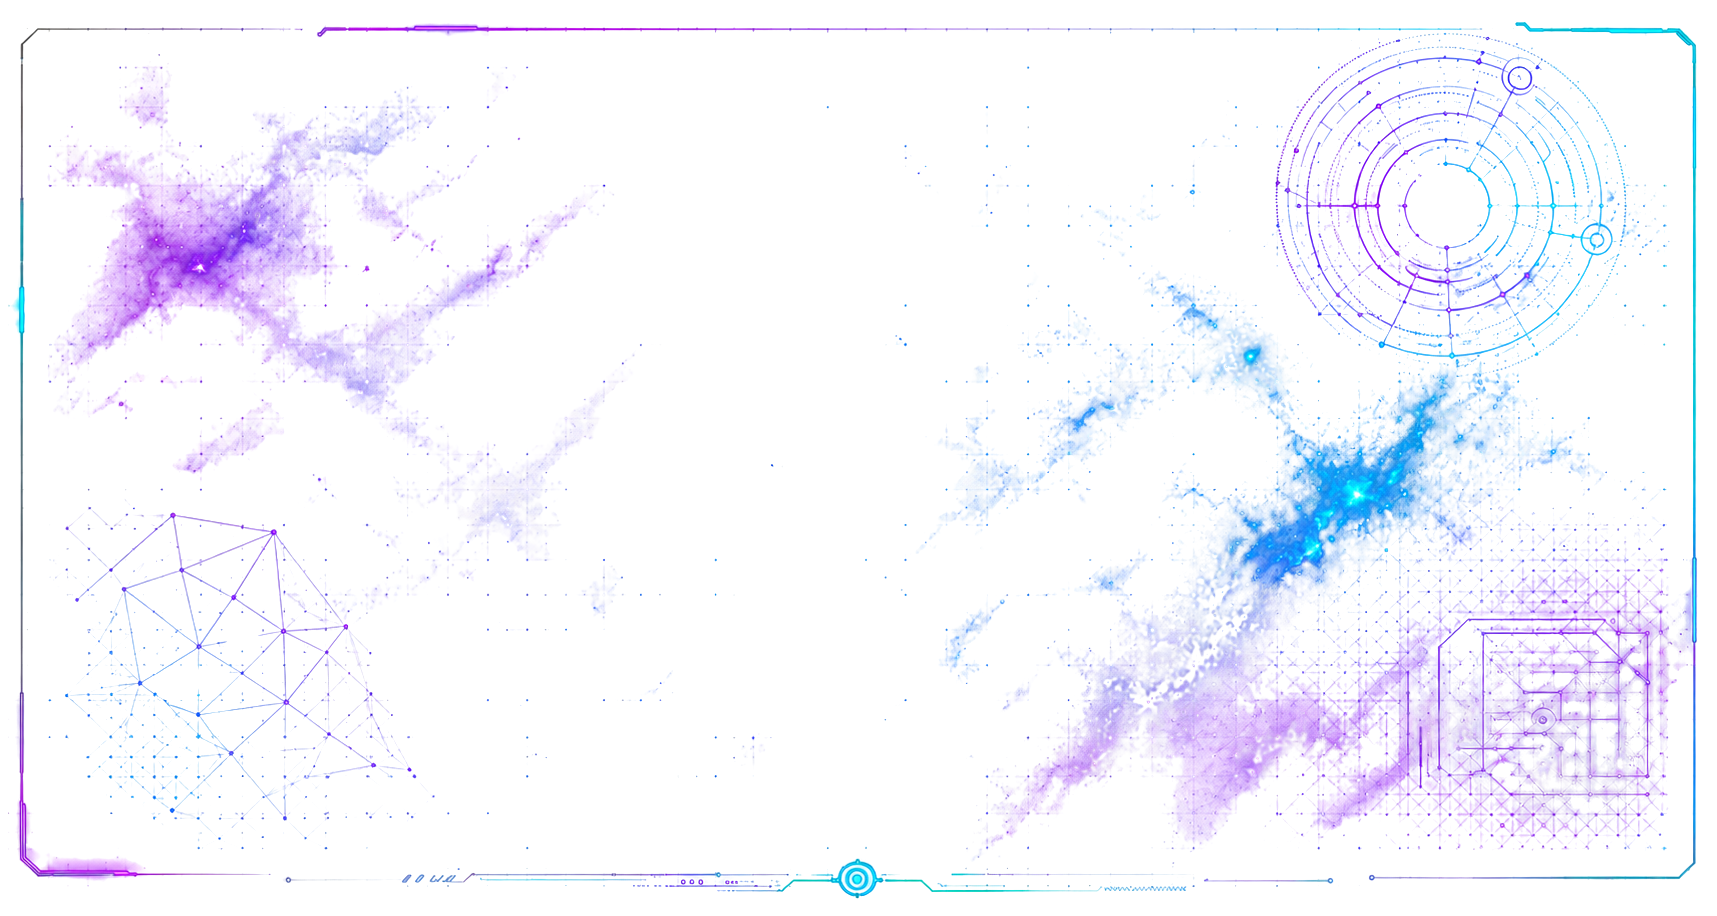
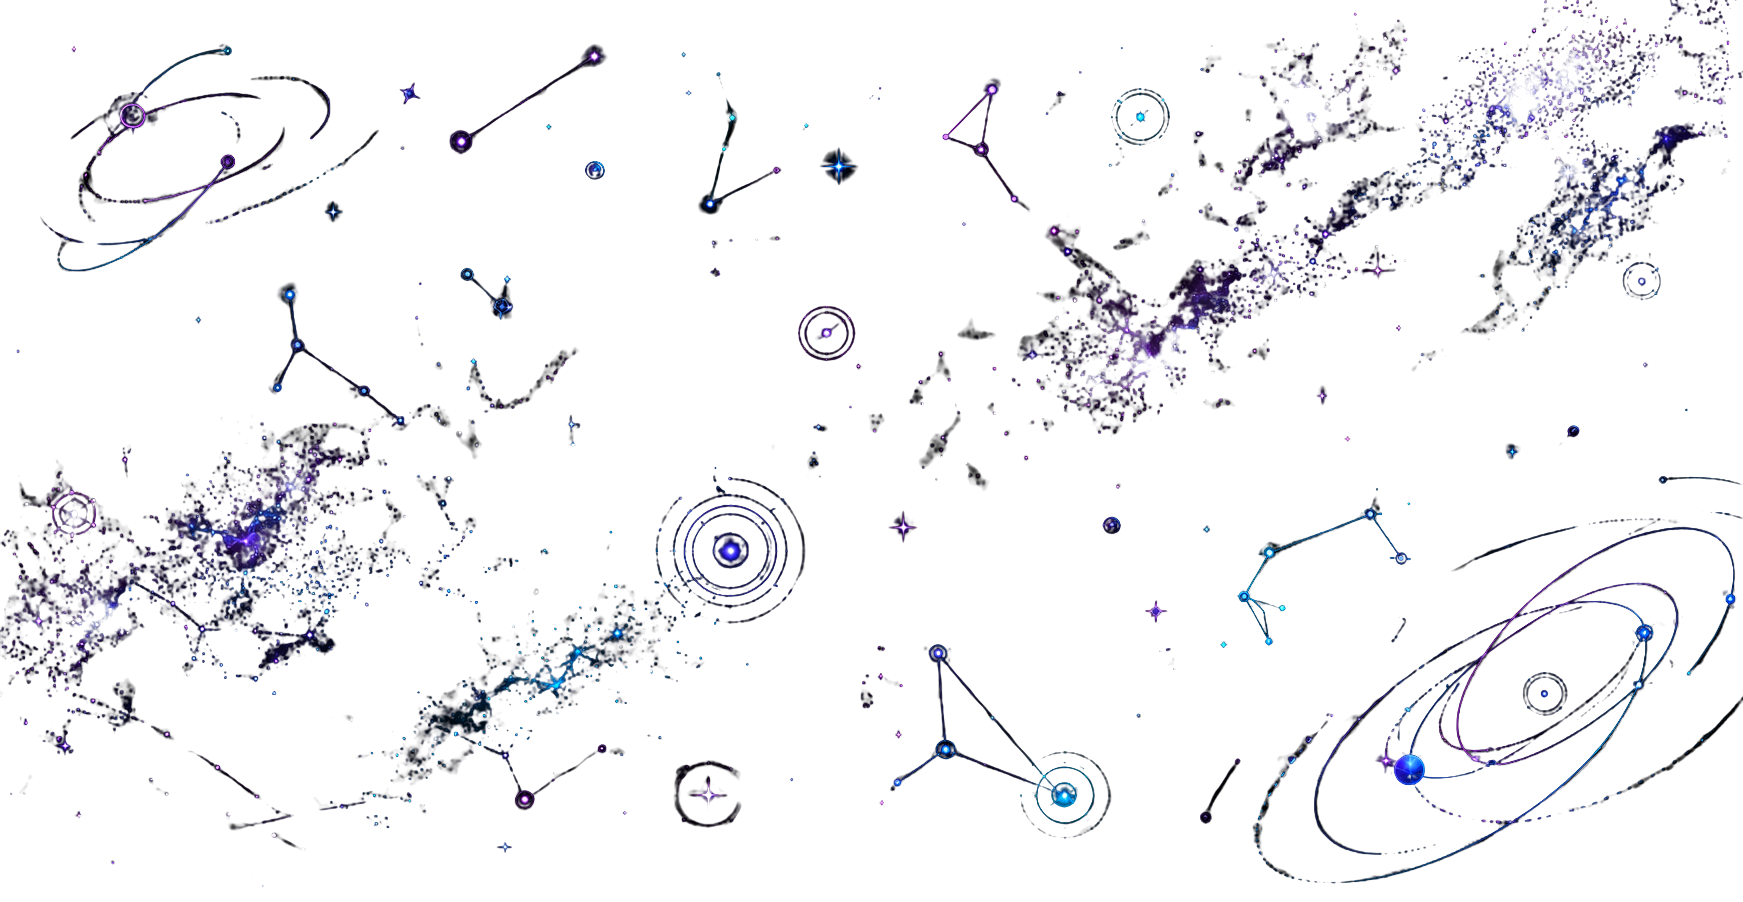
Hero: faster dark orbit + spinning light halo (per-layer rotateSpeed); static site background layer

diff --git a/components/SiteBackdrop.tsx b/components/SiteBackdrop.tsx
@@ -4,22 +4,20 @@ import { useEffect, useRef } from "react"
 import { useAnimationFrame, useReducedMotion } from "motion/react"
 import { SparkleCanvas } from "./SparkleCanvas"
 
-// Mouse parallax is deliberately gentle here — well under the hero's 26px — so the whole
-// page doesn't feel busy. The overlay (nearer) moves a little more than the backdrop.
-const BG_MOUSE_MAX = 8
+// Mouse parallax is deliberately gentle — well under the hero's 26px — so the page doesn't
+// feel busy. Only the overlay + sparkles move; the background image is kept STATIC so its
+// side details aren't cropped by drift/scale.
 const OVERLAY_MOUSE_MAX = 15
 const EASE = 0.05
 
 /**
- * The animated ambient background for every page: a fixed backdrop image and a foreground
- * overlay image that each drift on their own and shift slightly with the pointer (opposite
- * directions for depth), plus a page-wide twinkling starfield. Theme images/sparkle colors
- * come from CSS variables (swapped pre-paint). Under `prefers-reduced-motion` everything is
- * static and the sparkles don't render.
+ * The ambient background for every page: a STATIC fixed backdrop image, a drifting foreground
+ * overlay that shifts slightly with the pointer, and a page-wide twinkling starfield. Theme
+ * images/sparkle colors come from CSS variables (swapped pre-paint). Under
+ * `prefers-reduced-motion` the overlay is static too and the sparkles don't render.
  */
 export function SiteBackdrop() {
   const reduced = useReducedMotion()
-  const bgRef = useRef<HTMLDivElement>(null)
   const overlayRef = useRef<HTMLDivElement>(null)
   const target = useRef({ x: 0, y: 0 })
   const current = useRef({ x: 0, y: 0 })
@@ -36,27 +34,18 @@ export function SiteBackdrop() {
   }, [reduced])
 
   useAnimationFrame((t) => {
-    if (reduced) return
+    if (reduced || !overlayRef.current) return
     current.current.x += (target.current.x - current.current.x) * EASE
     current.current.y += (target.current.y - current.current.y) * EASE
     const time = t / 1000
-
-    if (bgRef.current) {
-      const dx = Math.sin(time * 0.12) * 6 + current.current.x * BG_MOUSE_MAX
-      const dy = Math.cos(time * 0.1) * 5 + current.current.y * BG_MOUSE_MAX
-      bgRef.current.style.transform = `translate3d(${dx.toFixed(2)}px, ${dy.toFixed(2)}px, 0) scale(1.06)`
-    }
-    if (overlayRef.current) {
-      // Opposite pointer direction + a touch more travel → parallax depth vs. the backdrop.
-      const dx = Math.sin(time * 0.16 + 1.5) * 9 - current.current.x * OVERLAY_MOUSE_MAX
-      const dy = Math.cos(time * 0.13 + 1.5) * 7 - current.current.y * OVERLAY_MOUSE_MAX
-      overlayRef.current.style.transform = `translate3d(${dx.toFixed(2)}px, ${dy.toFixed(2)}px, 0) scale(1.08)`
-    }
+    const dx = Math.sin(time * 0.16 + 1.5) * 9 - current.current.x * OVERLAY_MOUSE_MAX
+    const dy = Math.cos(time * 0.13 + 1.5) * 7 - current.current.y * OVERLAY_MOUSE_MAX
+    overlayRef.current.style.transform = `translate3d(${dx.toFixed(2)}px, ${dy.toFixed(2)}px, 0) scale(1.08)`
   })
 
   return (
     <>
-      <div ref={bgRef} className="site-backdrop" aria-hidden="true" />
+      <div className="site-backdrop" aria-hidden="true" />
       <SparkleCanvas count={64} color={["#e0b45f", "#d3a24a"]} speed={0.35} className="site-sparkles" />
       <div ref={overlayRef} className="site-overlay" aria-hidden="true" />
     </>

diff --git a/components/HeroMainCard.tsx b/components/HeroMainCard.tsx
@@ -27,6 +27,18 @@ const ORB_BOX: React.CSSProperties = {
 }
 const ORB_DEPTH = 0.8
 const ORB_PHASE = 2.0
+// Shared spin speed for the dark orbit + light halo (deg/s). Bumped up from the old 1.2.
+const ORBIT_SPEED = 5
+
+// The light halo ring sits on the right of its image; keep the layer full-bleed but pivot
+// rotation on the ring's center so it spins in place (not around the card center). Tune the
+// origin if the ring drifts as it spins.
+const HALO_BOX: React.CSSProperties = {
+  inset: "-6%",
+  backgroundSize: "cover",
+  backgroundPosition: "center",
+  transformOrigin: "68% 46%",
+}
 
 const LAYERS: HeroLayer[] = [
   // Dark: void (far) / orbit (spins around orb, right) / orb (drifts, right).
@@ -36,6 +48,7 @@ const LAYERS: HeroLayer[] = [
     depth: ORB_DEPTH,
     theme: "dark",
     rotate: true,
+    rotateSpeed: ORBIT_SPEED,
     box: ORB_BOX,
     baseTransform: "translateY(-50%)",
     phase: ORB_PHASE,
@@ -50,7 +63,15 @@ const LAYERS: HeroLayer[] = [
   },
   // Light: sky+water (far) / halo (twinkles) / city+lamppost (near).
   { src: "/hero/light/layer_0.png", depth: 0.16, theme: "light", phase: 0 },
-  { src: "/hero/light/layer_1.png", depth: 0.45, theme: "light", twinkle: true, phase: 1.2 },
+  {
+    src: "/hero/light/layer_1.png",
+    depth: 0.45,
+    theme: "light",
+    rotate: true,
+    rotateSpeed: ORBIT_SPEED,
+    box: HALO_BOX,
+    phase: 1.2,
+  },
   { src: "/hero/light/layer_2.png", depth: 0.95, theme: "light", phase: 2.4 },
 ]
 

diff --git a/components/HeroParallax.tsx b/components/HeroParallax.tsx
@@ -8,8 +8,10 @@ export type HeroLayer = {
   src: string
   /** 0 (far, least movement) → 1 (near, most movement). */
   depth: number
-  /** Very slow continuous rotation around the layer's transform-origin. */
+  /** Continuous rotation around the layer's transform-origin. */
   rotate?: boolean
+  /** Rotation speed in degrees/second (default 1.2 ≈ one turn every 5 min). */
+  rotateSpeed?: number
   /** Star-like opacity pulse (instead of/alongside drift). */
   twinkle?: boolean
   /** Only render for this theme (gated via CSS data-theme; flash-free). */
@@ -105,7 +107,7 @@ export function HeroParallax({
       const idleY = Math.cos(time * 0.38 + phase) * amp * 0.7
       const mx = current.current.x * depth * MOUSE_MAX
       const my = current.current.y * depth * MOUSE_MAX
-      const rot = layer.rotate ? (time * 1.2) % 360 : 0 // ~1.2°/s = full turn every 5 min
+      const rot = layer.rotate ? (time * (layer.rotateSpeed ?? 1.2)) % 360 : 0
       const scale = layer.rotate && !layer.box ? " scale(1.5)" : "" // cover corners on fill-mode spin
       const base = layer.baseTransform ? `${layer.baseTransform} ` : ""
       node.style.transform = `${base}translate3d(${(idleX + mx).toFixed(2)}px, ${(idleY + my).toFixed(2)}px, 0)${rot ? ` rotate(${rot.toFixed(2)}deg)` : ""}${scale}`

diff --git a/app/globals.css b/app/globals.css
@@ -53,11 +53,11 @@
     position: fixed;
     inset: 0;
     z-index: -3;
+    /* Static (no transform) so cover shows the full image without motion-cropping the sides. */
     background-image: var(--backdrop-image);
     background-size: cover;
     background-position: center center;
     background-repeat: no-repeat;
-    will-change: transform;
   }
 
   .site-backdrop::after {
